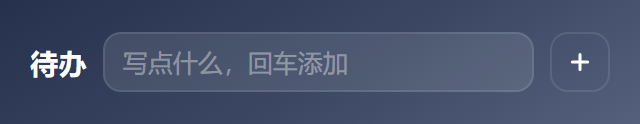
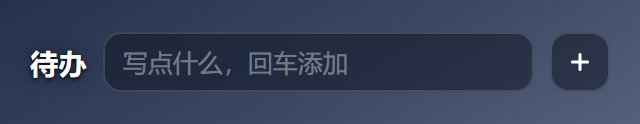
v1.7.0：双击改字、打完字挪开就自动记下、每个控件自带深色玻璃底
- 双击某条的文字就地改成别的字：Enter / 点别处保存，Esc 反悔，清空后回车视为放弃（不删条目）
- 双击自己判：条目的 mousedown 必须 preventDefault 防拖选文字，而这会连浏览器合成的 dblclick 一起吃掉
- 输入框失焦、或鼠标离开卡片 320ms 未返回 → 有内容就自动添加；0.3 秒内回来算反悔；Esc 清空放弃
- ★ 坑：Enter/Esc 收尾时把编辑框从 DOM 摘掉会甩出一个 blur，Esc 因此变成确认保存；blur 处理里先核 editId 是否仍是它
- 任务框 / 输入框 / 加号改深色玻璃（rgba(16,22,36,.55) + 1px 亮边），标题加投影：卡片是透明的，白字铺在白底窗口（行情软件、Word）前面会整条消失 —— 用户报的加了不显示就是这个，条目其实早就加进去了
- 验收：verify 39+31+36+13+27 / smoke 19+11+4+12，共 192 条全过

diff --git a/todo.html b/todo.html
@@ -161,18 +161,21 @@
   .row .hint svg{ width:13px; height:13px; }
   .row.armed .hint{ opacity:1; }
 
+  /* v1.7.0：条目自带一层"深色玻璃"。
+     卡片本身没有背景、窗口是透明的，白字如果没有衬底，铺在白色窗口（行情软件、
+     文档）前面就整块消失 —— 用户就是这么以为"没加上"的。深底 + 白字在深浅壁纸下都读得出来。 */
   .item{
     position:relative; z-index:2;
     height:30px;
     display:flex; align-items:center; gap:8px;
     padding:0 6px 0 7px;
     border-radius:9px;
-    background:rgba(255,255,255,.085);
-    box-shadow:inset 0 0 0 1px rgba(255,255,255,.07);
+    background:rgba(16,22,36,.52);
+    box-shadow:inset 0 0 0 1px rgba(255,255,255,.13);
     will-change:transform;
     transition:transform .18s cubic-bezier(.2,.8,.3,1), background .15s ease, opacity .18s ease, box-shadow .15s ease;
   }
-  .item:hover{ background:rgba(255,255,255,.115); }
+  .item:hover{ background:rgba(16,22,36,.64); }
   .item.dragging{ transition:none; }
   .item.removing{
     transform:translateX(110%);
@@ -205,12 +208,24 @@
     transition:color .16s ease, opacity .16s ease;
   }
 
+  /* 双击后换成的编辑框：和 .txt 同字号，看起来"就地变成可改的字" */
+  .etxt{
+    flex:1 1 auto; min-width:0;
+    height:22px; margin:-3px 0; padding:0 6px;
+    border:0; border-radius:6px;
+    background:rgba(12,17,30,.55);
+    box-shadow:inset 0 0 0 1px rgba(255,255,255,.42);
+    color:#fff; font:inherit; font-size:12.5px; letter-spacing:.2px;
+    outline:none; -webkit-app-region:no-drag;
+  }
+  .etxt::selection{ background:rgba(90,150,255,.55); }
+
   /* 已勾掉：整条退到背景里 —— 划掉 + 颜色变浅 + 底色更淡 */
   .item.done{
-    background:rgba(255,255,255,.035);
-    box-shadow:inset 0 0 0 1px rgba(255,255,255,.045);
+    background:rgba(16,22,36,.32);
+    box-shadow:inset 0 0 0 1px rgba(255,255,255,.08);
   }
-  .item.done:hover{ background:rgba(255,255,255,.07); }
+  .item.done:hover{ background:rgba(16,22,36,.44); }
   .item.done .chk{ opacity:.75; }
   .item.done .chk svg{ opacity:1; transform:scale(1); }
   .item.done .txt{
@@ -261,32 +276,34 @@
     order:1; flex:0 0 auto;
     position:relative; z-index:3;
     font-size:14px; font-weight:600; letter-spacing:.2px;
+    /* 标题没有自己的框，只能靠投影从浅色背景里"立"出来（白底窗口前尤其需要） */
+    text-shadow:0 1px 2px rgba(0,0,0,.85), 0 0 10px rgba(0,0,0,.45);
   }
   .card.solo .ttl .cnt{ display:none; }      /* 0 条，统计没意义 */
   .card.solo .add input{
     order:2; flex:1 1 auto; min-width:0;
     height:30px; border-radius:9px; padding:0 10px; font-size:12.5px;
-    background:rgba(255,255,255,.10);
-    box-shadow:inset 0 0 0 1px rgba(255,255,255,.10);
+    background:rgba(16,22,36,.55);
+    box-shadow:inset 0 0 0 1px rgba(255,255,255,.15);
     position:relative; z-index:3;
     -webkit-app-region:no-drag;              /* .add 没盒子了，得自己声明 */
   }
-  .card.solo .add input:hover{ background:rgba(255,255,255,.14); }
+  .card.solo .add input:hover{ background:rgba(16,22,36,.66); }
   .card.solo .add input:focus{
-    background:rgba(255,255,255,.19);
-    box-shadow:inset 0 0 0 1px rgba(255,255,255,.32);
+    background:rgba(16,22,36,.78);
+    box-shadow:inset 0 0 0 1px rgba(255,255,255,.34);
   }
   /* ＋ 钉死在卡片最右：order 必须排在图标后面。
      图标让出的 72px 由输入框吸收（输入框在它左边、可以变窄），
      ＋ 的左右边界因此全程一个像素都不动 —— 用户点它的时候绝不会扑空。 */
   .card.solo .btn-add{
     order:4; flex:0 0 auto; width:30px; height:30px; border-radius:9px;
-    background:transparent;
-    box-shadow:inset 0 0 0 1px rgba(255,255,255,.10);
+    background:rgba(16,22,36,.55);
+    box-shadow:inset 0 0 0 1px rgba(255,255,255,.15);
     position:relative; z-index:3;
     -webkit-app-region:no-drag;
   }
-  .card.solo .btn-add:hover{ background:rgba(255,255,255,.16); }
+  .card.solo .btn-add:hover{ background:rgba(16,22,36,.68); }
   /* 三个图标平时不占位置，鼠标进来才让出空间。
      位置刻意放在「输入框」和「＋」之间：这样让出的宽度全由输入框吸收，
      ＋ 贴在卡片右侧不动 —— 否则它会跟着图标一起左移 80px，用户点不着。
@@ -373,17 +390,17 @@
   .card:not(.full) .tint,
   .card:not(.full)::after{ display:none; }
 
-  /* 没有卡片底垫着，条目自己要更实一点才立得住（浅色壁纸上也看得清） */
+  /* 没有卡片底垫着，条目自己就是唯一的那块"玻璃"：比展开态再实一点 */
   .card:not(.full) .item{
-    background:rgba(255,255,255,.14);
-    box-shadow:inset 0 0 0 1px rgba(255,255,255,.11);
+    background:rgba(16,22,36,.56);
+    box-shadow:inset 0 0 0 1px rgba(255,255,255,.15);
   }
-  .card:not(.full) .item:hover{ background:rgba(255,255,255,.19); }
+  .card:not(.full) .item:hover{ background:rgba(16,22,36,.68); }
   .card:not(.full) .item.done{
-    background:rgba(255,255,255,.07);
-    box-shadow:inset 0 0 0 1px rgba(255,255,255,.06);
+    background:rgba(16,22,36,.34);
+    box-shadow:inset 0 0 0 1px rgba(255,255,255,.08);
   }
-  .card:not(.full) .item.done:hover{ background:rgba(255,255,255,.11); }
+  .card:not(.full) .item.done:hover{ background:rgba(16,22,36,.46); }
 
   /* ---------- 平时只留待办条目，鼠标进来才把整张卡展开 ----------
      收起时 顶栏 / 输入条 / 页脚 直接 display:none —— 卡片是真的变矮，不是留白。
@@ -502,6 +519,10 @@ function pushHist(text, kind) {
 }
 
 /* ================= 渲染 ================= */
+/* 正在双击编辑的条目 id（null = 没在编辑）。渲染时它那一行换成 input，
+   保证光标、选区、撤销都由浏览器自己管，不用手搓。 */
+let editId = null;
+
 function renderList() {
   const rows = $("rows");
   const items = state.items;
@@ -535,11 +556,15 @@ function renderList() {
 
   let html = "";
   items.forEach((t) => {
+    /* 双击进来的那一条换成输入框；其余照常。input 走浏览器原生输入法/撤销/选区 */
+    const body = editId === t.id
+      ? '<input class="etxt" data-id="' + t.id + '" value="' + esc(t.text) + '" spellcheck="false" maxlength="80">'
+      : '<span class="txt">' + esc(t.text) + '</span>';
     html += '<div class="row" data-id="' + t.id + '">' +
       '<div class="hint">' + ICON_TRASH + '<span>松手删除</span></div>' +
-      '<div class="item' + (t.done ? " done" : "") + '" data-id="' + t.id + '">' +
+      '<div class="item' + (t.done ? " done" : "") + (editId === t.id ? " editing" : "") + '" data-id="' + t.id + '">' +
         '<button class="chk" data-act="toggle" title="' + (t.done ? "标记为未完成" : "标记为已完成") + '">' + ICON_CHECK + '</button>' +
-        '<span class="txt">' + esc(t.text) + '</span>' +
+        body +
         '<button class="del" data-act="del" title="删除">' + ICON_TRASH + '</button>' +
       '</div></div>';
   });
@@ -577,6 +602,16 @@ function render() {
   applyFull();   /* 条目增减会改变"该不该展开"，例如删光了要露出输入框 */
   syncAddBtn();
   syncHeight();
+  focusEdit();
+}
+
+/* 渲染完把光标放回编辑框末尾（不全选 —— 多数时候是来改错字的） */
+function focusEdit() {
+  if (!editId) return;
+  const el = $("rows").querySelector(".etxt");
+  if (!el) return;
+  el.focus();
+  try { el.setSelectionRange(el.value.length, el.value.length); } catch (e) {}
 }
 
 /* ================= 窗口高度跟着内容走 =================
@@ -660,7 +695,8 @@ let hovering = false, typing = false;
 
 function wantFull() {
   if (isSolo()) return false;
-  return state.view === "hist" || hovering || typing;
+  /* 双击编辑时也必须展开：鼠标一挪开就把编辑框收掉，会让人以为改丢了 */
+  return state.view === "hist" || hovering || typing || !!editId;
 }
 
 function applyFull() {
@@ -681,12 +717,25 @@ function applySolo() {
 
 const cardEl = $("card");
 
+/* 鼠标离开整张卡 = 这次输入结束了。给 320ms 反悔时间（只是划过去不算），
+   真的走了就把输入框里的话收进待办并松开焦点。 */
+let leaveTimer = null;
+
 cardEl.addEventListener("mouseenter", () => {
+  clearTimeout(leaveTimer);
   hovering = true;
   if (applyFull()) syncHeight(true);
 });
 
 cardEl.addEventListener("mouseleave", () => {
+  clearTimeout(leaveTimer);
+  if (inp.value.trim() && document.activeElement === inp) {
+    leaveTimer = setTimeout(() => {
+      if (cardEl.matches(":hover")) return;
+      if (commitInput()) inp.blur();
+    }, 320);
+  }
+
   /* 窗口刚被挪动时 Chromium 偶尔误报离开，隔一拍再用 :hover 复核，避免抖 */
   setTimeout(() => {
     if (cardEl.matches(":hover")) return;
@@ -779,37 +828,120 @@ inp.addEventListener("input", () => {
   syncAddBtn();
 });
 
+/* 把输入框里的话收进待办。空着返回 false，不惊动任何人。
+   v1.7.0：失焦、鼠标挪走也走这里 —— 用户的原话是"输入完一挪开它自己就加进去"。 */
+let lastCommit = 0;
+function commitInput() {
+  const v = String(inp.value || "").trim();
+  if (!v) return false;
+  if (!add(v)) return false;
+  inp.value = "";
+  syncAddBtn();
+  lastCommit = Date.now();
+  return true;
+}
+
 inp.addEventListener("keydown", (e) => {
   if (e.key === "Enter") {
     e.preventDefault();
     /* 加完就松手：光标留在输入框里，卡片会一直撑着展开态，
        可用户这时候想看的是"刚加进去的那一条"。 */
-    if (add(inp.value)) { inp.value = ""; syncAddBtn(); inp.blur(); }
+    if (commitInput()) inp.blur();
   } else if (e.key === "Escape") {
+    /* 放弃这次输入：先清空再离开，否则一失焦又会被自动加进去 */
+    inp.value = "";
+    syncAddBtn();
     inp.blur();
   }
 });
 
+/* 离开输入框（点别处、点到别的窗口）→ 有内容就自动收进待办 */
+inp.addEventListener("blur", () => { commitInput(); });
+
 $("addBtn").addEventListener("click", () => {
-  if (add(inp.value)) { inp.value = ""; syncAddBtn(); inp.blur(); }
-  else inp.focus();      /* 空着点 ＋：等于"把光标放进输入框" */
+  /* 点 ＋ 的 mousedown 已经让输入框失焦、内容被自动收走了；
+     紧接着这次 click 不要重复添加，也不要把光标抢回来 */
+  if (Date.now() - lastCommit < 300) return;
+  if (!commitInput()) inp.focus();      /* 空着点 ＋：等于"把光标放进输入框" */
 });
 
-/* ================= 交互：完成 / 删除 / 右滑删除 ================= */
+/* ================= 交互：双击改成别的字 ================= */
 const list = $("list");
+
+function beginEdit(id) {
+  if (state.view !== "todo") return false;
+  if (!state.items.some((x) => x.id === id)) return false;
+  if (editId === id) return false;
+  editId = id;
+  render();
+  return true;
+}
+
+/* commit=false 是 Esc：原样退出，不写盘。
+   文字被清空也当作放弃 —— 想删请用垃圾桶或右滑，别让"清空"变成隐形删除。 */
+function endEdit(commit, el) {
+  const box = el || $("rows").querySelector(".etxt");
+  const id = (box && box.dataset && box.dataset.id) || editId;
+  const next = box ? String(box.value || "").trim() : "";
+  const t = state.items.find((x) => x.id === id);
+  if (commit && t && next && next !== t.text) { t.text = next; save(); }
+  editId = null;
+  render();
+}
+
+list.addEventListener("dblclick", (e) => {
+  if (state.view !== "todo" || editId) return;
+  if (e.target.closest(".chk") || e.target.closest(".del") || e.target.closest(".etxt")) return;
+  const item = e.target.closest(".item");
+  if (!item) return;
+  beginEdit(item.dataset.id);
+});
+
+list.addEventListener("keydown", (e) => {
+  const el = e.target;
+  if (!el.classList || !el.classList.contains("etxt")) return;
+  if (e.key === "Enter") { e.preventDefault(); endEdit(true, el); }
+  else if (e.key === "Escape") { e.preventDefault(); endEdit(false, el); }
+});
+
+/* blur 不冒泡，用捕获接：点到别处 = 保存。
+   注意先核 editId —— Enter/Esc 收尾时会把编辑框从 DOM 里摘掉，摘掉一个
+   正握着焦点的元素会立刻甩出一个 blur，不挡住的话 Esc 就成了"确认保存"。 */
+list.addEventListener("blur", (e) => {
+  const el = e.target;
+  if (!el.classList || !el.classList.contains("etxt")) return;
+  if (editId !== el.dataset.id) return;
+  endEdit(true, el);
+}, true);
+
+/* ================= 交互：完成 / 删除 / 右滑删除 ================= */
 let drag = null;            /* { item, row, id, startX, dx, moved } */
 let suppressClick = false;  /* 刚滑完，紧接着的 click 要吞掉，别误标完成 */
+let lastTap = { id: null, t: 0, x: 0, y: 0 };   /* 自己判双击用 */
 
 const THRESHOLD = 82;   /* 滑过这个距离就删（约 1/3 卡宽） */
 
 list.addEventListener("mousedown", (e) => {
   if (e.button !== 0) return;
   if (state.view !== "todo") return;
+  if (editId) return;          /* 正在改字：这期间不要启动滑动手势 */
   const item = e.target.closest(".item");
   if (!item) return;
 
   /* 点在勾选圈或垃圾桶上：走 click，不启动滑动手势 */
   if (e.target.closest(".chk") || e.target.closest(".del")) return;
+
+  /* 双击进编辑 —— 这里自己判，不用原生 dblclick：
+     下面那句 preventDefault（防止拖出文字选区）会把浏览器合成的 dblclick 一起挡掉。 */
+  const now = Date.now();
+  if (lastTap.id === item.dataset.id && now - lastTap.t < 420 &&
+      Math.abs(e.clientX - lastTap.x) < 6 && Math.abs(e.clientY - lastTap.y) < 6) {
+    lastTap = { id: null, t: 0, x: 0, y: 0 };
+    e.preventDefault();
+    beginEdit(item.dataset.id);
+    return;
+  }
+  lastTap = { id: item.dataset.id, t: now, x: e.clientX, y: e.clientY };
 
   drag = {
     item: item,

diff --git a/README.md b/README.md
@@ -14,6 +14,9 @@
 - **连卡片底都没有** —— 收起时卡片背景、内高光、叠加色全部撤掉，窗口是真透明的，桌面上只剩几个圆角任务框；鼠标移进才长出卡片底色来托住顶栏和输入条
 - **一条都没有时也是一行** —— 空列表不再是"还没有待办"的占位文案，而是把输入框本身摆成一条待办：`待办 + 写点什么 + ＋`，高度和一条待办完全一致，敲回车加第一条时窗口纹丝不动；**＋ 永远钉在最右端**，鼠标进来时三个图标出现在它左边，＋ 一个像素都不挪（不然打完字想点 ＋ 会点个空）
 - **几条就多高** —— 窗口高度严格跟着条数走：1 条最矮，每多一条 +33px，删一条立刻缩回，不预留空位
+- **打字完挪开就自动记下** —— 不用记得按回车：鼠标一离开卡片（0.3 秒内回来不算），输入框里的话就自己变成一条待办
+- **双击就能改字** —— 写错了直接双击那条的文字，就地改；`Enter` 或点别处保存，`Esc` 反悔
+- **任何背景上都读得清** —— 卡片透明，但每个任务框/输入框自带一层深色玻璃，摆在白底的行情软件或 Word 前面也不会"看不见"
 - **历史记录** —— 顶栏时钟图标进入历史视图，按今天/昨天/更早分组，看得到什么时候完成了什么、删掉了什么，误删可一键放回
 - **不打扰** —— 默认不置顶、不占任务栏、不抢焦点，就安静待在桌面上
 - **无边框圆角** —— 天气卡 320×392、待办卡 320 宽按内容自适应高度，拖动到任意位置并记住
@@ -26,8 +29,8 @@
 
 | 文件 | 说明 |
 | --- | --- |
-| `WeatherWidget-1.6.1-x64-setup.exe` | 安装版。可选安装目录，自动创建快捷方式 |
-| `WeatherWidget-1.6.1-x64-portable.exe` | 绿色版。双击即用，不写注册表（除自启动选项） |
+| `WeatherWidget-1.7.0-x64-setup.exe` | 安装版。可选安装目录，自动创建快捷方式 |
+| `WeatherWidget-1.7.0-x64-portable.exe` | 绿色版。双击即用，不写注册表（除自启动选项） |
 
 > 未做代码签名，Windows SmartScreen 可能提示"未知发布者"，点「更多信息 → 仍要运行」即可。
 
@@ -72,6 +75,8 @@
 | --- | --- |
 | 鼠标移进卡片 | 整张卡展开：标题、历史/更多/关闭、输入框、底部统计出现（窗口向上长，条目不动）；移出后收回，只剩条目 |
 | 输入文字 + `Enter` | 添加一条 |
+| **输入完直接把鼠标挪开** | 有内容就自动加进去（挪开 0.3 秒内又回来则不算，可以接着打） |
+| **双击某条的文字** | 就地改成别的字：`Enter` 或点别处保存，`Esc` 反悔；清空后回车视为放弃，不会把条目删掉 |
 | 点左边圆圈 | 标记完成：文字划掉、整条变浅，**位置不动**（不会跳到底部） |
 | 再点一次圆圈 | 取消完成 |
 | 鼠标移到某条上 | 右侧浮出垃圾桶，点它删除 |
@@ -83,6 +88,8 @@
 | `Ctrl`+`N` | 光标跳到输入框 |
 
 **平时只留条目**：标题、历史/更多/关闭、输入框、底部统计默认全部收起（不是变透明，是真的收起来），卡片高度只等于待办条数；**卡片自己的底色、内高光、叠加色也一并撤掉**，窗口是真透明的，桌面上只剩几个圆角任务框。鼠标移进卡片才展开，此时窗口会向上长高 63px、底边补 14px，**待办条目在屏幕上的位置完全不动**，所以鼠标底下那一行不会跑。一条都没有时改走"单行"版式（上图），不会为了露出输入框而把整卡展开 —— 那反而会把鼠标底下的行弹走。
+
+**每个控件自带一层深色玻璃**：卡片本身没有背景，但任务框、输入框、加号各自铺了一层半透明深底 + 1px 亮边。这样不论背后是深色壁纸还是白底窗口（行情软件、Word），白字都读得出来 —— 早先只做半透明白底，摆在白窗口前面整条会"消失"，看着像没添加上。
 
 **卡片高度就等于内容**：1 条待办时最矮，收起态就是 62px（一条的高度），鼠标移上去展开到 139px；**每多一条正好长 33px**，少一条就缩回去；最多长到屏幕可用高度的 72%（再多的条目在卡片内部滚动）。空列表时也是 62px（一行输入框），不会先占好三行的位置。如果卡片贴着屏幕底部，长高时会向上伸展、底边固定；条目减少后自动缩回你原来摆的位置。
 
